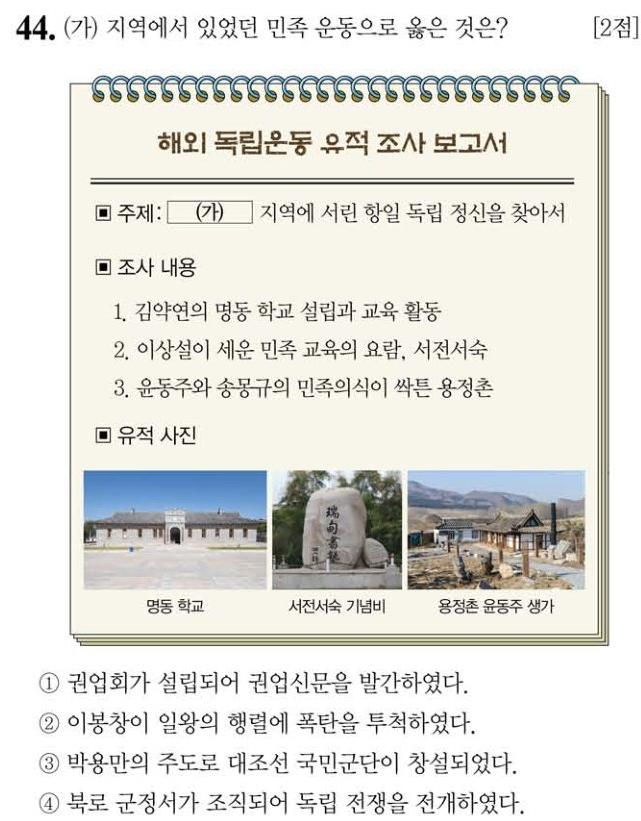
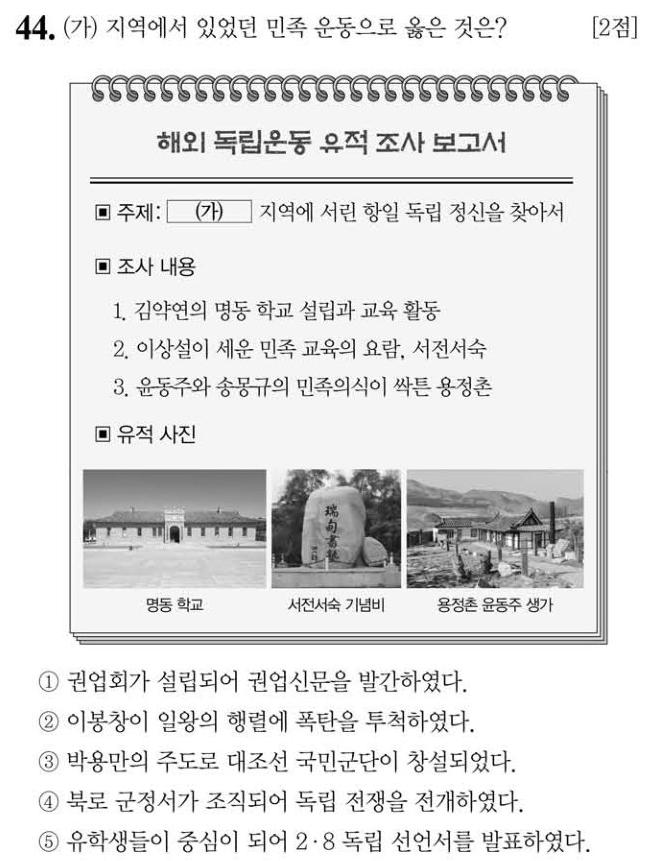
fix: restore option 5 on four truncated question images (#28)
Root cause was not the column spill fixed earlier but the footer test.
is_footer_word() treated any digit-only token below 88% of page height as
a page number, and Korean history options are full of dates written as
digits — 2·8 독립 선언, 3·1 민주 구국 선언, 6·3 시위. When such an option
landed in the bottom band of a page, its digits were read as the footer
and the crop stopped above it, dropping the whole option.

- build_from_official_pdfs.py: a footer number sits alone on its line, so
  is_footer_word() now rejects a digit token that shares a line with other
  text. Verified against the four affected pages.
- repair_truncated_images.py: repairs only the affected images instead of
  regenerating a round. It locates a question in the PDF by sliding its
  row-ink profile over each column (no OCR needed), finds where the body
  really ends (the page number is under 20% of the column width), and
  re-crops. It restores the original image if the result is not taller or
  the match is weak.
- 59회 46번, 61회 44번, 63회 44번, 65회 48번: option 5 restored (+40px each).
- curated/{59,61,63,65}.json: option 5 now explained from the recovered
  text, and the placeholder truncation notice is gone.

Rounds 57, 64, 73 and 74 still need their exam PDFs.

Claude-Session: https://claude.ai/code/session_01AqtcrQKAQjdTEkB6qUXmBy

diff --git a/scripts/repair_truncated_images.py b/scripts/repair_truncated_images.py
@@ -1,0 +1,184 @@
+# -*- coding: utf-8 -*-
+"""선지가 잘린 문항 이미지만 골라 원본 PDF에서 다시 잘라 붙인다.
+
+왜 전체 재생성이 아니라 이 방식인가:
+  기존 이미지는 Windows OCR 좌표로 만들어져 공동 지문 합성까지 잘 되어 있다.
+  리눅스(Tesseract)로 전부 다시 만들면 그 품질을 따라가지 못해 멀쩡한 문항까지
+  나빠진다. 그래서 잘린 문항만 손본다.
+
+방법:
+  1. 기존 이미지의 '행별 잉크량' 프로필을 PDF 각 단(段)에 슬라이딩 대조해
+     문항이 지면 어디에 있었는지 찾는다(OCR 불필요).
+  2. 그 단에서 본문의 진짜 끝을 찾는다. 페이지 번호는 폭이 단너비의 20%도
+     되지 않으므로 폭으로 걸러낸다.
+  3. 문항 시작부터 본문 끝까지 다시 잘라 저장하고 여백을 정리한다.
+
+안전장치: 새 이미지가 기존보다 크지 않거나 매칭 품질이 나쁘면 건너뛴다.
+
+사용법:
+    python scripts/repair_truncated_images.py            # 알려진 잘림 문항 전부
+    python scripts/repair_truncated_images.py 61 63      # 특정 회차만
+"""
+import os
+import sys
+import importlib.util
+
+import numpy as np
+from PIL import Image
+
+try:
+    import fitz  # PyMuPDF
+except ImportError:  # pragma: no cover
+    print("[!] PyMuPDF가 필요합니다: pip install pymupdf")
+    raise SystemExit(1)
+
+ROOT = os.path.dirname(os.path.dirname(os.path.abspath(__file__)))
+HERE = os.path.join(ROOT, "scripts")
+PDF_DIR = os.environ.get("EXAM_PDF_DIR", os.path.join(HERE, "official_pdfs"))
+IMAGES = os.path.join(ROOT, "public", "images", "exams")
+
+ZOOM = 2.0
+INK = 200            # 잉크로 볼 밝기
+MIN_BODY_RATIO = 0.20  # 본문 줄로 인정할 최소 폭(단너비 대비) — 페이지 번호 제외용
+PAD = 8              # 본문 끝 아래 여유
+COARSE, FINE = 6, 1  # 프로필 대조 보폭(성긴 탐색 → 정밀 보정)
+
+# 조사로 확인된 잘린 문항 (scripts/check_cropped_images.py + 육안 확인)
+TRUNCATED = {
+    "57": [48], "59": [46], "61": [44], "63": [44],
+    "64": [44], "65": [48], "73": [48], "74": [44],
+}
+
+
+def page_gray(page):
+    pix = page.get_pixmap(matrix=fitz.Matrix(ZOOM, ZOOM))
+    img = Image.frombytes("RGB", (pix.width, pix.height), pix.samples).convert("L")
+    return np.array(img)
+
+
+def gutter_x(a):
+    """가운데 부근에서 세로 잉크가 가장 적은 x = 두 단 사이 여백."""
+    col = (a < INK).sum(axis=0)
+    lo, hi = int(a.shape[1] * 0.40), int(a.shape[1] * 0.60)
+    return lo + int(np.argmin(col[lo:hi]))
+
+
+def row_profile(a):
+    return (a < INK).sum(axis=1).astype(float)
+
+
+def locate(doc, target):
+    """기존 이미지가 지면 어디에서 잘려 나왔는지 찾는다.
+
+    반환: (오차, 페이지번호, x0, x1, y_top) — 오차가 작을수록 확실하다.
+    """
+    P = row_profile(target)
+    h = len(P)
+    best = None
+    for pno in range(len(doc)):
+        a = page_gray(doc[pno])
+        g = gutter_x(a)
+        for x0, x1 in ((0, g), (g, a.shape[1])):
+            C = row_profile(a[:, x0:x1])
+            if len(C) <= h:
+                continue
+            for step in (COARSE, FINE):
+                lo = 0 if step == COARSE else max(0, best[4] - COARSE)
+                hi = len(C) - h if step == COARSE else min(len(C) - h, best[4] + COARSE)
+                if step == FINE and (best is None or best[1] != pno or best[2] != x0):
+                    break
+                for y in range(lo, hi, step):
+                    d = float(np.abs(C[y:y + h] - P).sum())
+                    if best is None or d < best[0]:
+                        best = (d, pno, x0, x1, y)
+    return best
+
+
+def body_bottom(a, x0, x1, y_from):
+    """단 안에서 본문(선지)이 실제로 끝나는 y. 페이지 번호는 폭으로 걸러낸다."""
+    strip = a[:, x0:x1] < INK
+    width = x1 - x0
+    rows = strip.sum(axis=1) > 3
+    bands, start = [], None
+    for y in range(len(rows)):
+        if rows[y] and start is None:
+            start = y
+        elif not rows[y] and start is not None:
+            if y - start >= 5:
+                bands.append((start, y))
+            start = None
+    if start is not None:
+        bands.append((start, len(rows)))
+    bottom = None
+    for b0, b1 in bands:
+        if b1 <= y_from:
+            continue
+        cols = np.where(strip[b0:b1].any(axis=0))[0]
+        if len(cols) and (cols.max() - cols.min()) >= width * MIN_BODY_RATIO:
+            bottom = b1
+    return bottom
+
+
+def repair(round_no, qno, margins):
+    pdf = os.path.join(PDF_DIR, f"{round_no}_exam.pdf")
+    img_path = os.path.join(IMAGES, round_no, f"q{qno:02d}.jpg")
+    if not os.path.exists(pdf):
+        return None, f"문제지 PDF 없음 ({round_no}_exam.pdf)"
+    if not os.path.exists(img_path):
+        return None, "기존 이미지 없음"
+
+    before = Image.open(img_path)
+    target = np.array(before.convert("L"))
+    doc = fitz.open(pdf)
+    try:
+        found = locate(doc, target)
+        if found is None:
+            return None, "지면에서 위치를 찾지 못함"
+        dist, pno, x0, x1, y_top = found
+        # 오차가 이미지 넓이 대비 과도하면 잘못 짚은 것으로 본다
+        if dist / max(1, target.shape[0]) > target.shape[1] * 0.25:
+            return None, f"매칭 신뢰도 낮음 (오차 {dist:.0f})"
+        a = page_gray(doc[pno])
+        bottom = body_bottom(a, x0, x1, y_top)
+        if bottom is None or bottom <= y_top + target.shape[0]:
+            return None, "이미 본문 끝까지 포함됨(잘림 아님)"
+        crop = a[y_top:min(bottom + PAD, a.shape[0]), x0:x1]
+        Image.fromarray(crop).convert("RGB").save(img_path, "JPEG", quality=87)
+        margins.auto_crop_white_margins(img_path)
+        after = Image.open(img_path)
+        if after.size[1] <= before.size[1]:
+            before.save(img_path, "JPEG", quality=87)  # 되돌린다
+            return None, f"결과가 더 짧아 되돌림 ({before.size[1]}→{after.size[1]})"
+        return (before.size, after.size, pno + 1), None
+    finally:
+        doc.close()
+
+
+def main(argv):
+    spec = importlib.util.spec_from_file_location("m", os.path.join(HERE, "crop_margins.py"))
+    margins = importlib.util.module_from_spec(spec)
+    spec.loader.exec_module(margins)
+
+    wanted = [a for a in argv if a.isdigit()]
+    rounds = [r for r in sorted(TRUNCATED, key=int) if not wanted or r in wanted]
+    fixed, skipped = [], []
+    for r in rounds:
+        for q in TRUNCATED[r]:
+            ok, why = repair(r, q, margins)
+            if ok:
+                (bw, bh), (aw, ah), page = ok
+                print(f"[+] {r}회 {q:2d}번  {bw}x{bh} → {aw}x{ah} (+{ah - bh}px, {page}쪽)")
+                fixed.append(f"{r}-{q}")
+            else:
+                print(f"[-] {r}회 {q:2d}번  건너뜀: {why}")
+                skipped.append(f"{r}-{q}")
+    print()
+    print(f"[+] 복구 {len(fixed)}건" + (f": {', '.join(fixed)}" if fixed else ""))
+    if skipped:
+        print(f"[-] 건너뜀 {len(skipped)}건: {', '.join(skipped)}")
+    print("    확인: python scripts/check_cropped_images.py")
+    return 0
+
+
+if __name__ == "__main__":
+    sys.exit(main(sys.argv[1:]))

diff --git a/scripts/build_from_official_pdfs.py b/scripts/build_from_official_pdfs.py
@@ -19,7 +19,9 @@ import io
 import os
 import re
 import json
+import shutil
 import subprocess
+import tempfile
 
 import fitz  # PyMuPDF
 from PIL import Image
@@ -49,8 +51,23 @@ RENDER_ZOOM = 2.0
 FOOTER_WORD_RE = re.compile(r"^[\d/\\|]+$")
 
 
-def is_footer_word(w, page_h):
-    return w[1] > page_h * 0.88 and bool(FOOTER_WORD_RE.fullmatch(w[4]))
+def is_footer_word(w, page_h, words=None):
+    """페이지 번호(푸터) 토큰인지 판정한다.
+
+    숫자만으로 이루어졌다는 조건만 쓰면 '⑤ … 2·8 독립 선언서 …'처럼 지면
+    아래쪽에 놓인 선지의 숫자까지 푸터로 오인해, 그 선지가 통째로 잘려 나간다.
+    실제 푸터는 그 줄에 저 혼자 있으므로 같은 줄에 다른 글자가 있으면 본문으로 본다.
+    """
+    if not (w[1] > page_h * 0.88 and FOOTER_WORD_RE.fullmatch(w[4])):
+        return False
+    if words is None:
+        return True
+    for o in words:
+        if o is w:
+            continue
+        if abs(o[1] - w[1]) <= 8 and not FOOTER_WORD_RE.fullmatch(o[4]):
+            return False
+    return True
 
 
 def isnum(s):
@@ -107,6 +124,65 @@ def has_text_layer(doc):
     return sum(len(doc[i].get_text().strip()) for i in range(min(3, len(doc)))) > 500
 
 
+# 문항 번호는 굵은 큰 글자라 OCR이 마침표를 쉼표·가운뎃점으로 자주 잘못 읽는다.
+OCR_NUM_FIX_RE = re.compile(r"^(\d{1,2})[,、·:;]$")
+
+
+def _normalize_ocr_word(text):
+    """OCR 토큰의 흔한 오인식을 문항 번호 형태로 되돌린다.
+
+    '12,' → '12.'  (엉뚱한 본문 숫자가 섞여도 find_questions()가 단 시작
+    x좌표로 걸러내므로, 여기서는 형태만 맞춰 준다.)
+    """
+    return OCR_NUM_FIX_RE.sub(r"\1.", text)
+
+
+def tesseract_words_pages(doc, round_no):
+    """스캔 PDF를 Tesseract로 OCR해 단어 좌표를 얻는다(리눅스·macOS용).
+
+    Windows OCR(ocr_words.ps1)을 쓸 수 없는 환경에서의 대체 경로다.
+    필요: tesseract 본체와 한국어 데이터(apt install tesseract-ocr tesseract-ocr-kor)
+    """
+    cache = os.path.join(PDF_DIR, "ocr_cache", f"{round_no}_tesseract.json")
+    if not os.path.exists(cache):
+        os.makedirs(os.path.dirname(cache), exist_ok=True)
+        pages = []
+        with tempfile.TemporaryDirectory() as tmp:
+            for i, page in enumerate(doc):
+                png = os.path.join(tmp, f"p{i+1:02d}.png")
+                page.get_pixmap(matrix=fitz.Matrix(RENDER_ZOOM, RENDER_ZOOM)).save(png)
+                r = subprocess.run(
+                    ["tesseract", png, "stdout", "--psm", "11", "-l", "kor+eng", "tsv"],
+                    capture_output=True, text=True, timeout=600,
+                )
+                if r.returncode != 0:
+                    raise RuntimeError(f"tesseract 실패 (제{round_no}회 {i+1}쪽): {r.stderr[:300]}")
+                words = []
+                for line in r.stdout.splitlines()[1:]:
+                    f = line.split("\t")
+                    if len(f) < 12 or not f[11].strip():
+                        continue
+                    try:
+                        conf = float(f[10])
+                        x, y, w, h = (int(f[6]), int(f[7]), int(f[8]), int(f[9]))
+                    except ValueError:
+                        continue
+                    if conf < 30:
+                        continue
+                    words.append([x, y, x + w, y + h, _normalize_ocr_word(f[11].strip())])
+                pages.append(words)
+        with open(cache, "w", encoding="utf-8") as f:
+            json.dump(pages, f, ensure_ascii=False)
+    with open(cache, encoding="utf-8") as f:
+        pages = json.load(f)
+    # 픽셀 좌표(zoom 배율) → PDF 포인트 좌표
+    return [
+        [(w[0] / RENDER_ZOOM, w[1] / RENDER_ZOOM, w[2] / RENDER_ZOOM, w[3] / RENDER_ZOOM, w[4])
+         for w in page]
+        for page in pages
+    ]
+
+
 def ocr_words_pages(doc, round_no):
     """스캔 PDF의 각 페이지를 렌더링해 Windows OCR로 단어 좌표를 얻는다."""
     cache = os.path.join(PDF_DIR, "ocr_cache", f"{round_no}.json")
@@ -139,10 +215,18 @@ def ocr_words_pages(doc, round_no):
 
 
 def get_words_pages(doc, round_no):
-    """페이지별 단어 목록 [(x0,y0,x1,y1,text), …] 과 모드('text'|'ocr')를 돌려준다."""
+    """페이지별 단어 목록 [(x0,y0,x1,y1,text), …] 과 모드('text'|'ocr'|'tesseract')를 돌려준다."""
     if has_text_layer(doc):
         return [page.get_text("words") for page in doc], "text"
-    return ocr_words_pages(doc, round_no), "ocr"
+    if shutil.which("powershell"):
+        return ocr_words_pages(doc, round_no), "ocr"
+    if shutil.which("tesseract"):
+        return tesseract_words_pages(doc, round_no), "tesseract"
+    raise RuntimeError(
+        "스캔 PDF라 OCR이 필요하지만 사용할 수 있는 OCR이 없습니다. "
+        "Windows라면 PowerShell을, 그 외에는 tesseract를 설치하세요 "
+        "(apt install tesseract-ocr tesseract-ocr-kor)."
+    )
 
 
 # ── 지면 구조 감지 ───────────────────────────────────────────────
@@ -421,7 +505,7 @@ def column_regions(doc, words_pages, left_span, right_span, left_col, right_col)
             col = sorted([m for m in marks if m[1] == col_key], key=lambda m: m[2])
             footer_ys = [
                 w[1] for w in words
-                if cx0 <= w[0] <= cx1 and is_footer_word(w, page.rect.height)
+                if cx0 <= w[0] <= cx1 and is_footer_word(w, page.rect.height, words)
             ]
             regions.append({
                 "pno": pno,
@@ -452,7 +536,7 @@ def find_continuation(doc, words_pages, region):
     band_bottom = min(stops) - 10
     band = [
         w for w in words
-        if cx0 <= w[0] <= cx1 and w[1] < band_bottom and not is_footer_word(w, page_h)
+        if cx0 <= w[0] <= cx1 and w[1] < band_bottom and not is_footer_word(w, page_h, words)
     ]
     if not band:
         return None
